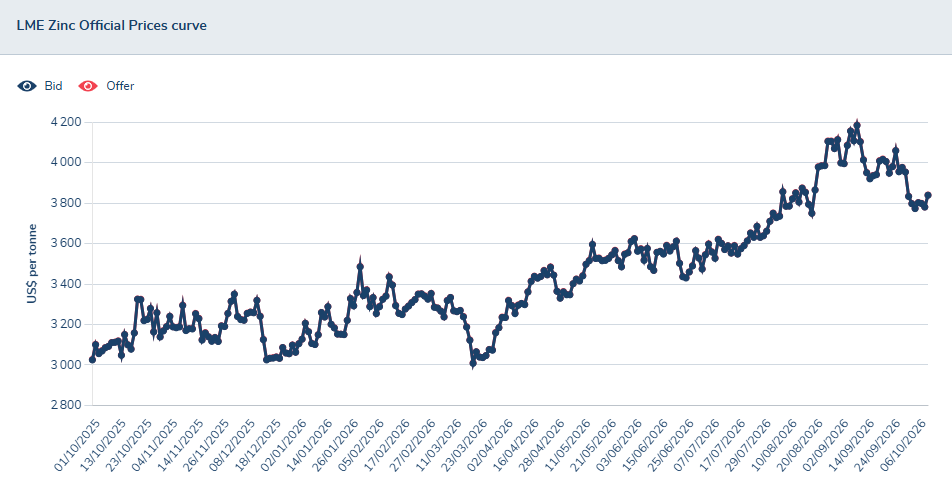
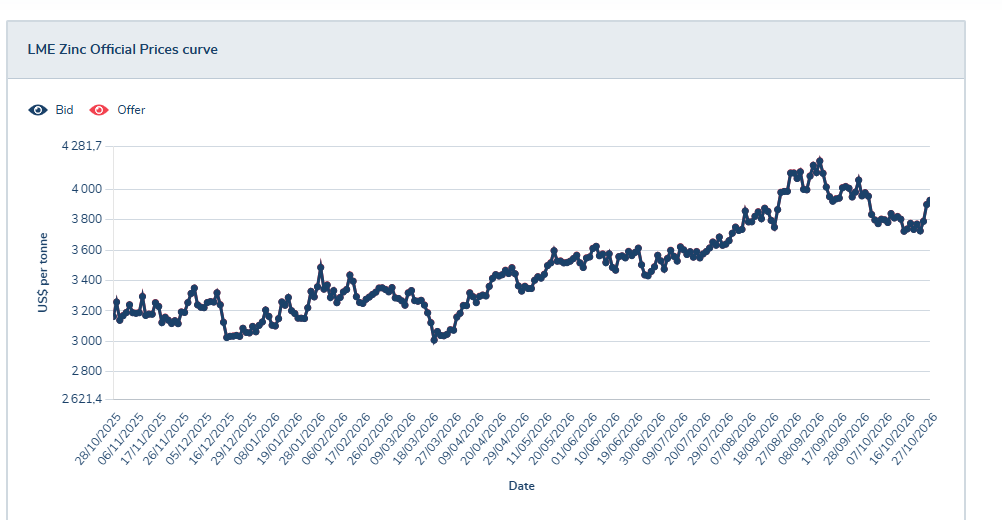
Indicateurs de marché : zinc LME mis à jour (cours au 27.10.2026), date de révision 28.10.2026
Claude-Session: https://claude.ai/code/session_016aozrDweoiigfqF25TdjzY

diff --git a/public/catalogue.html b/public/catalogue.html
@@ -3670,7 +3670,7 @@ function renderMarketIndexDetail(data,current,diesel,canplast,brent,eurchf,usdch
     kbob:{upd:kbobLast(current),src:KBOB_SRC}, gaz:{upd:kbobLast('Gaz (artisanat, industries, services)'),src:KBOB_SRC}, elec:{upd:kbobLast('Electricité (artisanat, industries, services)'),src:KBOB_SRC},
     astag:{upd:dieselLast?'semaine du '+dateFR(dieselLast.weekStart):null,src:'ASTAG — prix moyen hebdomadaire du diesel'},
     corr:{upd:dieselLast?'semaine du '+dateFR(dieselLast.weekStart):null,src:'ASTAG et Brent'},
-    alu:{upd:'mis à jour le 28.10.2026 (cours au 27.10.2026)',src:'LME — Aluminium Official Prices'}, cuivre:{upd:CAPT,src:'LME'}, nickel:{upd:CAPT,src:'LME'}, zinc:{upd:CAPT,src:'LME'}, ferraille:{upd:CAPT,src:'Platts'}, hrc:{upd:CAPT,src:'Argus'}, rebar:{upd:CAPT,src:'Platts'},
+    alu:{upd:'mis à jour le 28.10.2026 (cours au 27.10.2026)',src:'LME — Aluminium Official Prices'}, cuivre:{upd:CAPT,src:'LME'}, nickel:{upd:CAPT,src:'LME'}, zinc:{upd:'mis à jour le 28.10.2026 (cours au 27.10.2026)',src:'LME — Zinc Official Prices'}, ferraille:{upd:CAPT,src:'Platts'}, hrc:{upd:CAPT,src:'Argus'}, rebar:{upd:CAPT,src:'Platts'},
     acier:{upd:lastOf(acier.dates)?'relevé du '+dateFR(lastOf(acier.dates)):null,src:'Aurélien (Achats)'},
     brent:{upd:lastOf(brentDatesAll)?'semaine du '+dateFR(lastOf(brentDatesAll)):null,src:'Brent Crude Oil — clôtures hebdomadaires'},
     eurchf:{upd:lastOf(eDatesAll)?'semaine du '+dateFR(lastOf(eDatesAll)):null,src:'EUR/CHF spot — clôtures hebdomadaires'},
@@ -3716,7 +3716,7 @@ const mktSummaryRows=
 
   const panelNickel=`<div id="mkt-nickel" class="marketDetailPanel" ${mktHidden('nickel')}><div class="analysisBlock" style="margin-top:18px"><h3>⚙ Nickel (LME)</h3><p class="muted">Cours LME Nickel (USD/tonne) — capture fournie, pas encore intégré comme série de données exploitable dans l'outil.</p><img src="/market_charts/nickel.png" style="max-width:100%;border:1px solid #e5e9ef;border-radius:8px" alt="Nickel (LME)"></div></div>`;
 
-  const panelZinc=`<div id="mkt-zinc" class="marketDetailPanel" ${mktHidden('zinc')}><div class="analysisBlock" style="margin-top:18px"><h3>⬜ Zinc (LME)</h3><p class="muted">Cours LME Zinc (USD/tonne) — capture fournie, pas encore intégré comme série de données exploitable dans l'outil.</p><img src="/market_charts/zinc.png" style="max-width:100%;border:1px solid #e5e9ef;border-radius:8px" alt="Zinc (LME)"></div></div>`;
+  const panelZinc=`<div id="mkt-zinc" class="marketDetailPanel" ${mktHidden('zinc')}><div class="analysisBlock" style="margin-top:18px"><h3>⬜ Zinc (LME)</h3><p class="muted">Cours LME Zinc (USD/tonne), du 28.10.2025 au 27.10.2026 — <b>mis à jour le 28.10.2026</b> (capture LME, pas encore intégré comme série de données exploitable dans l'outil).</p><img src="/market_charts/zinc.png?v=20261028" style="max-width:100%;border:1px solid #e5e9ef;border-radius:8px" alt="Zinc (LME)"></div></div>`;
 
   const panelFerraille=`<div id="mkt-ferraille" class="marketDetailPanel" ${mktHidden('ferraille')}><div class="analysisBlock" style="margin-top:18px"><h3>♻ Ferraille CFR Turquie (Platts)</h3><p class="muted">Cours Platts Steel Scrap CFR Turkey (USD/tonne) — capture fournie, pas encore intégré comme série de données exploitable dans l'outil.</p><img src="/market_charts/ferraille_turquie.png" style="max-width:100%;border:1px solid #e5e9ef;border-radius:8px" alt="Ferraille CFR Turquie (Platts)"></div></div>`;
 

diff --git a/public/note_marche_pptx.js b/public/note_marche_pptx.js
@@ -75,7 +75,7 @@ function buildSpec(entity,d){
     {kind:'cards',title:'Énergie : pétrole, gaz, électricité',cards:[cBrent,cGaz,cElec],note:'Pétrole : prix en USD/baril (variation sur 4, 13 et 52 semaines). Gaz et électricité : indices KBOB (variation sur 1, 3 et 12 mois). Hausse en rouge, baisse en vert (point de vue achat).'},
     {kind:'images',title:'Matières premières : ferraille et zinc',images:[
       {key:'ferraille',caption:'Ferraille CFR Turquie (Platts), USD/tonne',source:'Source : Platts (capture)'},
-      {key:'zinc',caption:'Zinc (LME), USD/tonne',source:'Source : LME (capture)'}],
+      {key:'zinc',caption:'Zinc (LME), USD/tonne',source:'Source : LME (capture mise à jour le 28.10.2026, cours au 27.10.2026)'}],
      note:'Captures de cours fournies et intégrées dans l\'e-shop : pas de série chiffrée exploitable pour calculer des variations.'}]};
   spec.sections.push(s1);
 
